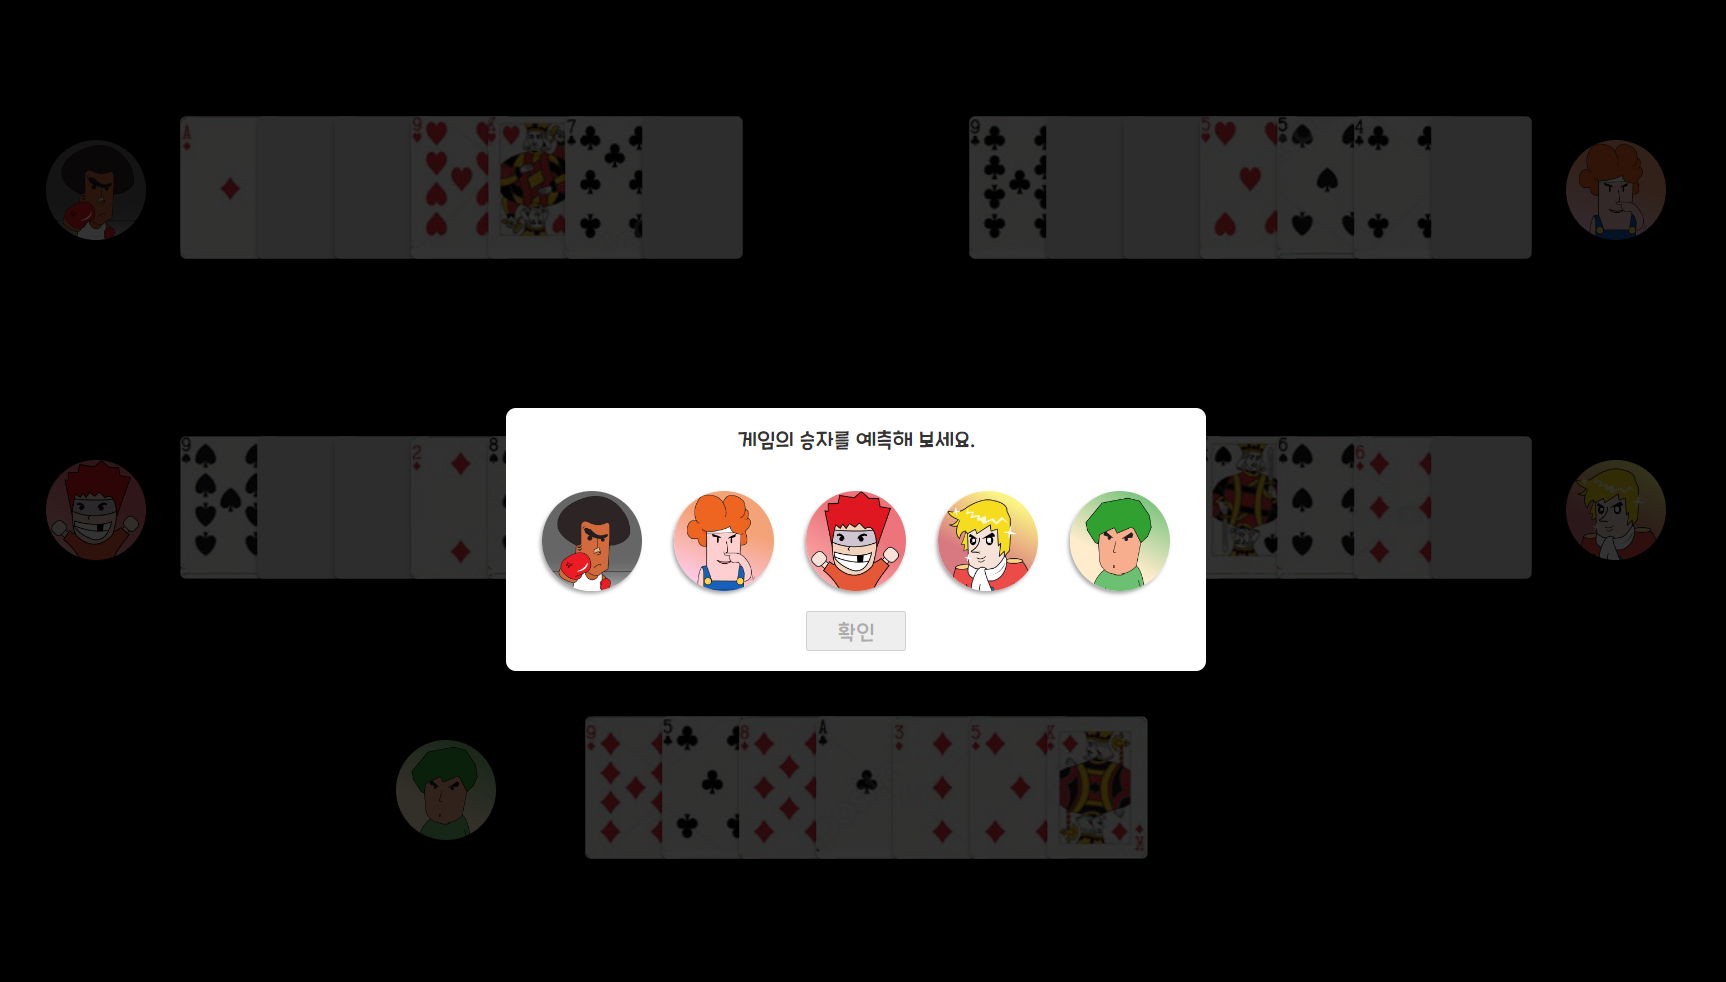
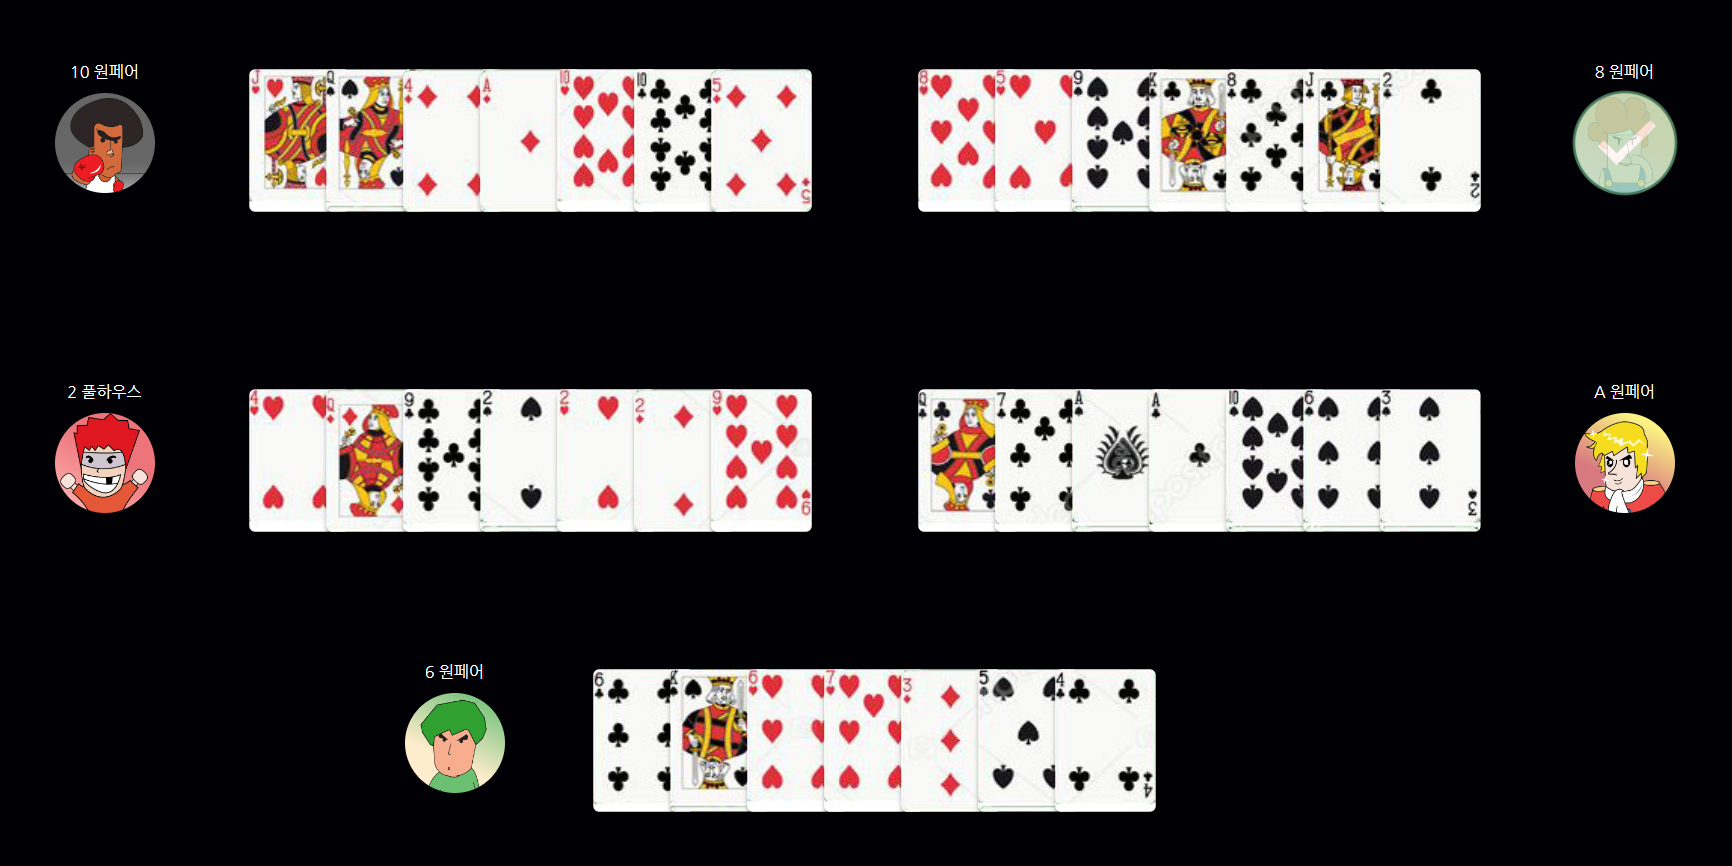
fix: save

diff --git a/src/css/game.scss b/src/css/game.scss
@@ -53,8 +53,13 @@
         }
     }
     .card-box {
+        position: relative;
         display: flex;
         .txt-made {
+            position: absolute;
+            top: -30px;
+            width: 100px;
+            text-align: center;
             color: #fff;
         }
         .cards {
@@ -125,6 +130,9 @@
         }
         &:not(.result) {
             .card-box {
+                .txt-made {
+                    display: none;
+                }
                 .cards {
                     ul {
                         li {

diff --git a/src/css/index.scss b/src/css/index.scss
@@ -10,7 +10,8 @@ body {
     background-color: rgb(1, 0, 5);
     // font-family: 'JetBrains Mono', ui-sans-serif, -apple-system, BlinkMacSystemFont, 'Segoe UI', Helvetica, 'Apple Color Emoji', Arial, sans-serif,
     //     'Segoe UI Emoji', 'Segoe UI Symbol', 'Nanum Gothic';
-    font-family: 'CookieRun-Regular';
+    // font-family: 'CookieRun-Regular';
+    font-family: 'Nanum Gothic';
     color: #333;
 
     #root {

diff --git a/src/pages/Game.tsx b/src/pages/Game.tsx
@@ -87,7 +87,6 @@ const Game = () => {
 
     return (
         <div className="game-wrap">
-            {/* selectUser : {selectUser} */}
             {isProgress === EIsProgress.INIT ? (
                 <button className="btn-play" onClick={() => gameStart()}>
                     게임 시작
